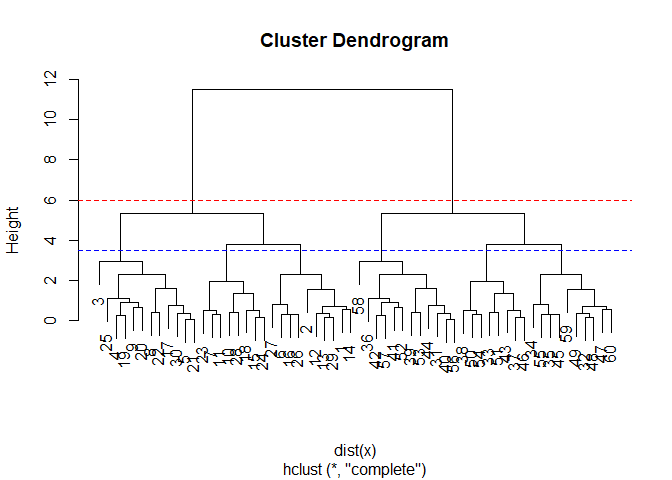
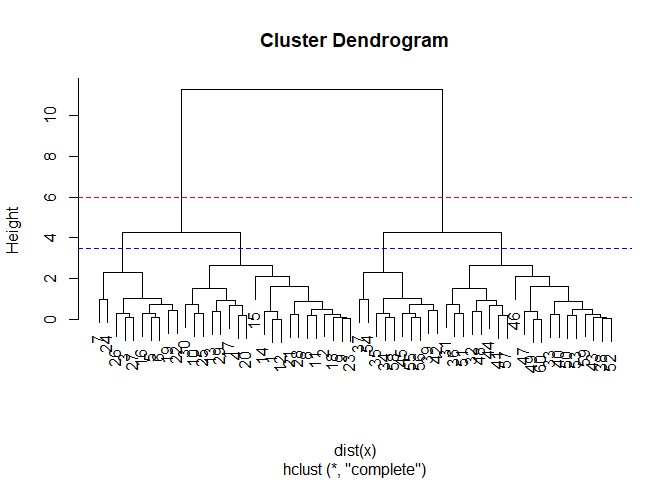
Updated title of the files.

diff --git a/lecture_9/lecture_9.md b/lecture_9/lecture_9.md
@@ -1,4 +1,4 @@
-lecture\_9
+Hands on with Principal Component Analysis (PCA)
 ================
 Tiffany Luong
 2/5/2020
@@ -40,16 +40,16 @@ km
     ## 
     ## Cluster means:
     ##           x         y
-    ## 1 -2.833851  2.902190
-    ## 2  2.902190 -2.833851
+    ## 1 -2.989195  2.839118
+    ## 2  2.839118 -2.989195
     ## 
     ## Clustering vector:
     ##  [1] 1 1 1 1 1 1 1 1 1 1 1 1 1 1 1 1 1 1 1 1 1 1 1 1 1 1 1 1 1 1 2 2 2 2 2 2 2 2
     ## [39] 2 2 2 2 2 2 2 2 2 2 2 2 2 2 2 2 2 2 2 2 2 2
     ## 
     ## Within cluster sum of squares by cluster:
-    ## [1] 74.91463 74.91463
-    ##  (between_SS / total_SS =  86.8 %)
+    ## [1] 40.50539 40.50539
+    ##  (between_SS / total_SS =  92.6 %)
     ## 
     ## Available components:
     ## 
@@ -112,8 +112,8 @@ km$centers
 ```
 
     ##           x         y
-    ## 1 -2.833851  2.902190
-    ## 2  2.902190 -2.833851
+    ## 1 -2.989195  2.839118
+    ## 2  2.839118 -2.989195
 
 Plot x colored by the kmeans cluster assignment and add cluster centers
 as blue points.
@@ -173,8 +173,8 @@ table(cutree(hc, h=3.5))
 ```
 
     ## 
-    ##  1  2  3  4  5  6 
-    ## 10 12  8 12 10  8
+    ##  1  2  3  4 
+    ## 20 10 20 10
 
 You can also ask `cutree()` for the `k` number of groups that you want.
 
@@ -182,8 +182,8 @@ You can also ask `cutree()` for the `k` number of groups that you want.
 cutree(hc, k=5)
 ```
 
-    ##  [1] 1 1 2 2 2 1 1 2 2 1 1 1 1 1 1 1 2 1 2 2 2 2 1 1 2 1 1 1 1 2 3 4 5 4 4 3 5 5
-    ## [39] 3 3 3 3 5 3 4 5 4 4 4 5 5 3 3 5 4 3 3 3 4 4
+    ##  [1] 1 1 2 1 2 2 2 1 1 1 1 1 1 1 1 2 1 1 2 1 1 2 1 2 1 2 2 1 1 1 3 3 4 5 5 3 5 4
+    ## [39] 5 4 3 5 4 3 5 4 4 3 4 4 3 4 4 5 5 5 3 5 4 4
 
 ## Data clustering.
 
@@ -233,11 +233,11 @@ grps3 <- cutree(hc, k=3)
 grps3
 ```
 
-    ##   [1] 1 2 1 1 1 1 1 1 1 1 1 1 1 1 1 1 1 1 1 1 1 2 1 1 1 1 1 1 1 1 1 1 1 1 1 2 1
-    ##  [38] 1 2 1 1 1 2 1 1 1 1 1 1 1 3 3 3 3 3 2 3 3 3 3 3 3 3 3 3 3 3 3 3 3 3 2 3 2
-    ##  [75] 3 3 3 3 3 3 1 3 3 3 3 3 3 3 3 3 3 3 2 3 2 3 3 2 3 3 2 2 1 1 2 2 2 2 2 2 2
-    ## [112] 2 2 2 2 2 2 2 2 2 1 2 2 2 2 2 2 2 2 2 2 2 2 2 1 2 2 2 2 2 2 2 2 2 2 2 2 2
-    ## [149] 2 2
+    ##   [1] 1 2 2 1 1 2 2 1 1 2 1 2 1 1 2 1 2 2 1 1 2 1 2 1 1 1 1 2 1 2 1 1 1 2 2 1 2
+    ##  [38] 2 2 2 2 1 1 2 1 2 2 1 1 1 3 3 3 3 3 3 3 3 3 1 3 3 3 3 3 3 3 3 3 3 3 2 3 3
+    ##  [75] 3 2 3 3 2 2 3 3 3 3 3 3 3 3 3 3 3 3 3 3 3 3 3 2 3 2 1 1 1 1 1 1 1 1 1 1 1
+    ## [112] 1 1 1 1 1 1 1 1 1 1 1 3 1 1 1 1 1 1 1 1 1 1 1 1 1 1 1 1 1 1 1 1 1 1 1 1 1
+    ## [149] 1 1
 
 ``` r
 table(grps3)
@@ -245,7 +245,7 @@ table(grps3)
 
     ## grps3
     ##  1  2  3 
-    ## 50 57 43
+    ## 77 29 44
 
 Q. How does this compare to your known ‘col’ groups?
 
@@ -265,9 +265,9 @@ table(grps3, col)
 
     ##      col
     ## grps3 c1 c2 c3
-    ##     1 45  1  4
-    ##     2  5  6 46
-    ##     3  0 43  0
+    ##     1 27  1 49
+    ##     2 23  6  0
+    ##     3  0 43  1
 
 ## Principal Component Analysis (PCA)
 
